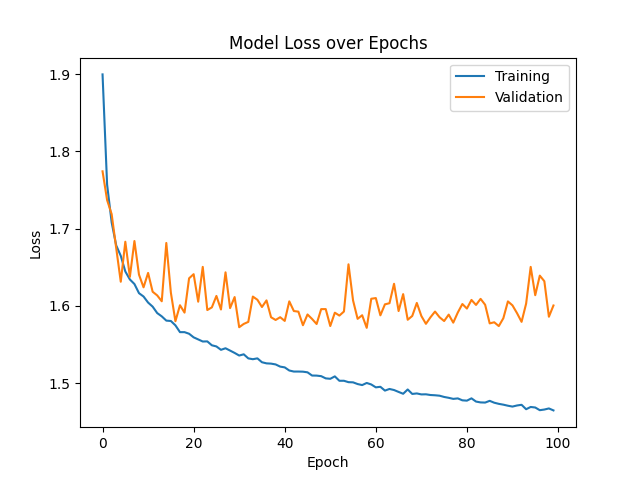
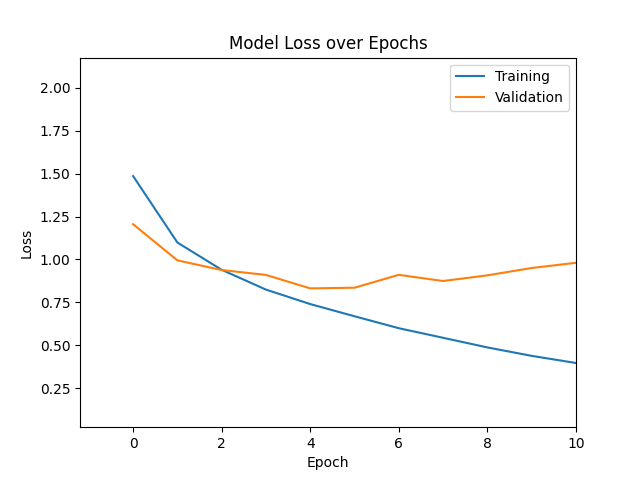
Replaced  previous model with a convolutional neural network

diff --git a/main.py b/main.py
@@ -22,25 +22,29 @@ import matplotlib.pyplot as pyplot
 #Load CIFAR-10 Dataset
 (fitData, fitLabels), (valData, valLabels) = tf.keras.datasets.cifar10.load_data()
 
-# Create a Sequential model with appropriate input shape for data set (32x32 image w/ 3 color channels)
+# Create a basic convolutional neural network with a sequential model
 model = tf.keras.Sequential([
-    tf.keras.layers.Normalization(),
-    tf.keras.layers.Flatten(input_shape=(32, 32, 3)),
+    tf.keras.layers.Conv2D(32, (3, 3), input_shape=(32, 32, 3), activation='relu'),
+    tf.keras.layers.MaxPooling2D(2,2),
+    tf.keras.layers.Conv2D(64, (3, 3), activation='relu'),
+    tf.keras.layers.MaxPooling2D(2,2),
+    tf.keras.layers.Conv2D(128, (3, 3), activation='relu'),
+    tf.keras.layers.Flatten(),
     tf.keras.layers.Dense(128, activation='relu'),
     tf.keras.layers.Dense(10)
 ])
 
-#Normalize data
+model.compile(optimizer='Adam', loss=tf.keras.losses.SparseCategoricalCrossentropy(from_logits=True), metrics=['accuracy'])
+
+# Normalize data
 fitData = fitData / 255.0
 valData = valData / 255.0
 
-model.compile(optimizer='Adam', loss=tf.keras.losses.SparseCategoricalCrossentropy(from_logits=True))
-
 # Fit the model with the training data
-model.fit(fitData, fitLabels, epochs=100, validation_data=(valData, valLabels))
+model.fit(fitData, fitLabels, epochs=10, validation_data=(valData, valLabels))
 
 # Plot the loss with both fit data and validation data over epochs
-print(model.history.history.keys())
+pyplot.figure()
 
 pyplot.plot(model.history.history['loss'])
 pyplot.plot(model.history.history['val_loss'])
@@ -49,6 +53,19 @@ pyplot.title('Model Loss over Epochs')
 
 pyplot.xlabel('Epoch')
 pyplot.ylabel('Loss')
+
+pyplot.legend(['Training', 'Validation'])
+
+#Plot accuracy over epochs
+pyplot.figure()
+
+pyplot.plot(model.history.history['accuracy'])
+pyplot.plot(model.history.history['val_accuracy'])
+
+pyplot.title('Accuracy over Epochs')
+
+pyplot.xlabel('Epoch')
+pyplot.ylabel('Accuracy')
 
 pyplot.legend(['Training', 'Validation'])
 
